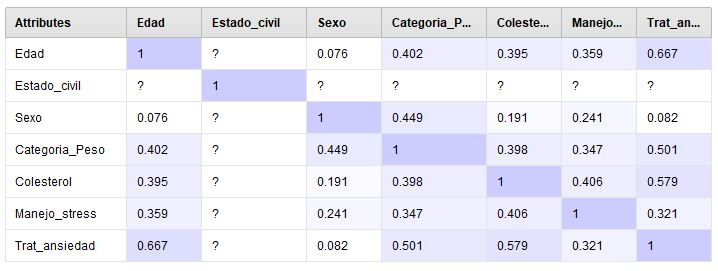
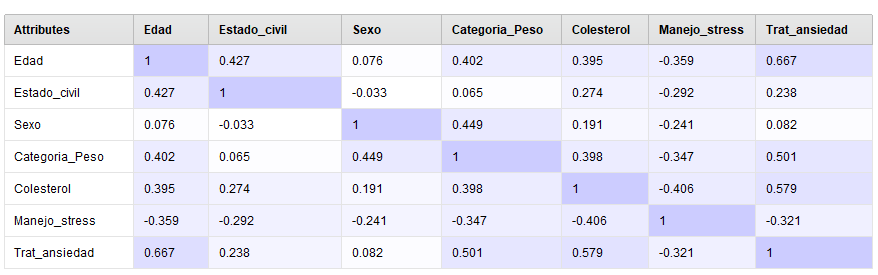
p2

Changed region(s): [[0.0, 0.0, 1.0, 1.0], [0.1532, 0.6494, 0.3064, 0.7085]]

diff --git a/proyectoDos.html b/proyectoDos.html
@@ -6,7 +6,7 @@
 -->
 <html>
 	<head>
-		<title>Proyecto análisis cardiológico </title>
+		<title>Predicción de segundo ataque cardíaco </title>
 		<meta charset="utf-8" />
 		<meta name="viewport" content="width=device-width, initial-scale=1, user-scalable=no" />
 		<link rel="stylesheet" href="assets/css/main.css" />
@@ -32,19 +32,26 @@
 							<!-- Content -->
 								<section>
 									<header class="main">
-										<h1>Predicción de segundo ataque cardíaco</h1>
+										<h2>Predicción de segundo ataque cardíaco</h2>
 									</header>
-							<hr class="major" />										
-							<p style="font-size:30px"> Datos utilizados <a href=""> data set cardiológico</a>
+								
+							<p style="font-size:18px"> Datos utilizados entrenamiento: <a href="files/cardiac-training"> data set cardiológico training</a>
+								
+							<p style="font-size:18px"> Datos utilizados test: <a href="files/cardiac-scoring"> data set cardiológico entrenamiento</a>
 
+	<hr class="major" />
+						<p style="font-size:20px ;text-align:justify"> El presente data set consta de información de pacientes :<br>
 
-						<p style="font-size:30px">El presente data set consta de información de pacientes :<br>
-
-						En primer lugar según CRISP - DM se procede a la comprensión del área de estudio, la misma refiere a mediciones de diferentes variables<br>
-						de pacientes cardiológicos.
-						En segundo lugar se procede a la comprensión de los datos, observamos los atributos medidos y su significado:<br>
+						En primer lugar siguiendo el modelo CRISP-DM se procede a la comprensión del área de estudio, la misma refiere a mediciones de diferentes variables<br>
+						de pacientes cardiológicos. El cardiólogo desea poder contar con un sistema que le permita inferir partiendo de datos observados del paciente si
+						hay riesgo de sufrir un nuevo infarto o no. Cuenta con datos históricos de pacientes y variables medidas que científicamente se utilizan como indicadores proxy para 
+						predecir enfermedades coronarias.<br>
+						El doctor cuenta en su registro con información histórica de pacientes que sufrieron un infarto  y por tanto hay datos que ya tiene etiquetados debido a que los pacientes fallecieron (ya confirmó la
+						posibilidad de sufrir un nuevo infarto o no). Por tanto nos encontramos frente a un problema supervisado.<br>
+						Por otro lado queremos determinar una clasificación de los pacientes en dos grupos, aquellos que sí tienen riesgo de sufrir un 2do infarto
+						y los que no, por lo que estamos ante un problema de clasificación.<br>
+						Procederemos primero a la comprensión de los datos, observamos los atributos medidos y su significado:<br>
 		
-						2do_Ataque_Corazon: Este atributo existe solamente en el dataset de entrenamiento. Es la variable objetivo o de predicción (“label” en RM). En el dataset de entrenamiento, este atributo contiene “SI” para aquellos individuos que han sufrido un segundo ataque al corazón, y “No” en caso contrario. </p>
 					<!DOCTYPE html>
 <html>
    <head>
@@ -58,71 +65,161 @@
    <body>
       <table>
          	<tr>
-            <th><p style="font-size:22px">Atributo</th></p>
-			<th><p style="font-size:22px">Tipo de atributo</th>
-            <th><p style="font-size:22px">Rango</th>
-			<th><p style="font-size:22px">Distribución</th>
+            <th><p style="font-size:18px">Atributo</th></p>
+			<th><p style="font-size:18px">Tipo de atributo</th>
+            <th><p style="font-size:18px">Rango</th>
          	</tr>
 			<tr>
 			<td><strong>Estado_civil:</strong> Asume los valores: 0 = soltero; 1 = casado, 2 = divorciado y 3 = viudo.</td>
-			<td>Polinominal</td>
+			<td>categórica más de 2 clases</td>
 			<td>0-3</td>
-			<td> -</td>
 			</tr>
 			<td><p><strong>Sexo:</strong> Asume los valores 0 = femenino; 1= masculino.</p></td>
-			<td>Binominal</td>
+			<td>categórica - dummy</td>
 			<td>0-1</td>
-			<td> - </td>
 			</tr>
 			<td><p><strong>Categoria_Peso:</strong> Toma tres valores: 0 = normal; 1 = sobrepeso; 2 = obeso. </p></td>
-			<td>Categórica tomada como integer</td>
+			<td>categórica en números</td>
 			<td>0-2</td>
-			<td> - </td>
 			</tr>
 			<td><p><strong>Colesterol:</strong> nivel de colesterol de la persona, tal como se ha registrado en el momento del tratamiento indicado cuando su más reciente ataque al corazón.</p></td>
-			<td>Continua</td>
-			<td>122-239</td>
-			<td> No tiene una forma de distribución conocida </td>
+			<td>continua</td>
+			<td>122 - 239</td>
 			</tr>
 			<td><p><strong>Manejo_stress: </strong> Indica si el paciente ha participado previamente de cursos de manejo del estrés: 0 = no; 1 = si.</p></td>
-			<td>Boniminal</td>
+			<td>categórica - dummy</td>
 			<td>0-1</td>
-			<td> - </td>
 			</tr>
-			<td><p><strong>Trat_ansiedad:</strong> Atributo que toma valores de tipo entero entre 0 y 100 indicativo del nivel natural de estrés de cada persona y de su habilidad para manejarlo. Poco tiempo después de que la persona se recuperara de su primer ataque, se le administró un test de ansiedad natural estándar. Los valores están tabulados en incrementos de 5. Un valor de 0 indicaría que la persona nunca siente ansiedad, presión o estrés en ninguna situación, mientras que un valor de 100 indicaría que la persona vive en un estado continuo de sobrecarga e incapaz de lidiar con su situación.</p></td>
-			<td>Categórica entendida como continua</td>
+			<td><p><strong>Trat_ansiedad:</strong> Atributo que toma valores de tipo entero entre 0 y 100 indicativo del nivel natural de estrés de cada persona y de su habilidad para manejarlo. </p></td>
+			<td>categórica entendida como continua</td>
 			<td>35-80</td>
-			<td> No tiene una forma de distribución conocida - podría ser normal con sesgo a la derecha </td>
 			</tr>   
       </table>
    </body>
 </html>
-					<p style="font-size:30px"> Analizados los atributos se identifican los rangos de los mismos, 
-					<span class="image main"><img src="images/p2_pdatos.JPG"  alt="" /></span>
-					Como se observa en esta imagen los 0 indican que no hay atributos faltantes (missing), los rangos no denotan valores anormales (outliers)
-					<p style="font-size:30px"> Se observan los atributos y las posibles correlaciones que pueden existir entre los mismos. Por ejemplo podrían identificarse entre manejo del estrés y tratamiento de la ansiedad posibles correlaciones y también hay estudios que vinculan niveles de colesterol con factores de estrés así como con el sexo de la persona.</p>
 
-					<p style="font-size:30px"> A continuación se realiza la preparación de los datos: 
-					Se observa la matriz de correlación entre atributos: </p>
-					<span class="image main"><img src="images/p2_mcorr.JPG"  alt="" /></span>
-					<p style="font-size:30px">Se observa que los atributos continuos más correlacionados podrían ser edad y tratamiento de la ansiedad pero su valor es bajo.
-					A su vez todos los atributos son importantes y aportan a la predicción de la variable dependiente, por tanto no se seleccionan atributos.<br>
+<p style="font-size:20px ;text-align:justify"> En cuanto a la variable Trat_ansiedad resulta de una prueba aplicada al paciente luego de sufrir el 1er ataque cardíaco, 
+a cada paciente se le administró un test de ansiedad natural estándar. <br>
+Los valores están tabulados en incrementos de 5. Un valor de 0 indicaría que la persona nunca siente ansiedad,
+ presión o estrés en ninguna situación, mientras que un valor de 100 indicaría que la persona vive en un estado continuo
+  de sobrecarga e incapaz de lidiar con su situación.<br>
 
-					Algo importante a realizar es la normalización de los datos para que los rangos de variación de los mismos no sean muy disímiles.<br>
-								
-								
-					Dado el problema que se aborda, y debido a que la variable dependiente toma los valores Sí y No (es categoríca - binominal) se considera que aplicar un método de regresión logística es adecuado para el modelo.		 </p>
-								
-					<span class="image main"><img src="images/p2_accuracy.JPG"  alt="" /></span>			
-								
-					<p style="font-size:30px">Con respecto a la evaluación del modelo, se divide el set de información rotulada en datos de entrenamiento y datos de validación para observar qué tan bien predice el modelo y obtener resultados de su performance.
-						En cuanto a esto se observa que tiene una precisión del 82,93%, observando que  18 casos predichos como sí eran efectivamente sí, mientras que 5 son falsos positivos. Por otra parte 16 casos fueron correctamente predichos como No mientras que 2 fueron falsos negativos.</p>
-						
-		
+El atributo <strong>2do_Ataque_Corazon </strong> existe solamente en el dataset de entrenamiento. Es la variable objetivo o de predicción (“label” en RapidMiner). 
+En el dataset de entrenamiento, este atributo contiene “Si” para aquellos individuos que han sufrido un segundo ataque al corazón, y “No” en caso contrario. <br>
+
+Analizados los atributos se estudian con más detalle los factores que pueden perjudicar cualquier modelo como ser los rangos de los mismos, valores missing y outliers.<br>
+Observamos a continuación el resumen de estadísticos que ofrece RapidMiner:<br>
+<img title="tabla" src="images/p2_pdatos.JPG" style="width:90%;height:50%;" alt="" /><br>
+Como se observa en esta imagen los 0 indican que no hay atributos faltantes (missing), 
+los rangos no denotan valores anormales (outliers) de hecho los promedios y desviaciones de cada columna se encuentran bastante
+ajustados a la media.<br>
+
+Se observa las posibles correlaciones que pueden existir entre los mismos en caso de aplicar algoritmos como Regresión Logística o Naive Bayes sensibles
+a las correlaciones entre las variables.<br>
+Por ejemplo podrían identificarse entre manejo del estrés y tratamiento de la ansiedad posibles correlaciones altas
+ y también hay estudios que vinculan niveles de colesterol con factores de estrés así como con el sexo de la persona.<br>
+
+Para los datos de nuestro data set sin embargo no parecieran haber correlaciones significativas:<br>
+<img title="matriz" src="images/p2_mcorr.JPG" style="width:90%;height:50%;" alt="" /><br>	<br>
+
+El registro más elevado se observa en edad y tratamiento de ansiedad, así como categoría peso y colesterol con tratamiento de ansiedad,
+pero son valores bajos no significativos que justifiquen una remoción del atributo del modelo.<br>
+
+Si aplicamos un análisis de componentes principales, ya que todas nuestras variables son numéricas podemos hacerlo con facilidad,
+observamos la siguiente tabla de valores propios (eigenvalues):<br>
+
+<img title="matriz" src="images/p2_pca.PNG" style="width:100%;height:50%;" alt="" /><br>	<br>
+
+Se observa que los dos primeros componentes principales explican el 97,7% de la varianza del modelo, si buscamos dentro de los
+vectores propios (eigenvectors) :
+
+<img title="matriz" src="images/p2_pca2.PNG" style="width:100%;height:50%;" alt="" /><br>	<br>
+
+Se observa que el primer componente tiene un peso altísimo del colesterol, lo que es lógico con las recomendaciones médicas habituales
+de controlar dicho factor de riesgo.<br>
+El segundo componente tiene un gran peso de la variable tratamiento de ansiedad de forma negativa lo que no tendría mucha lógica a simple 
+vista dado que indicaría a mayores puntajes de ansiedad en la prueba menor riesgo de padecer un segundo ataque, pero en estos casos
+es cuando debe comprenderse la existencia de posibles variables correlacionadas, es decir, podría establecer la hipótesis
+de que la gente más ansiosa tiende a descargar dicha energía haciendo por ejemplo ejercicio lo que sería bueno para la salud
+y se correlacionaría con esta variable. <br>
+Por otra parte el segundo atributo que compone el segundo componente principal es Edad, de forma negativa, aunque en este caso
+su peso se reduce.<br>
+ Se observa en la siguiente imagen la proporción de la varianza acumulada por componentes principales:<br>
+
+ <img title="matriz" src="images/p2_pcaCurve.PNG" style="width:100%;height:50%;" alt="" /><br>	<br>
+
+Algo importante a realizar es la normalización de los datos para que los rangos de variación de los mismos no sean muy disímiles
+sobre todo porque algoritmos como LDA o Naive Bayes asumen distribuciones normales.<br>
+
+En los modelos de rapid miner los operadores de SVM, Logistic Regression ofrecen realizar la estandarización como parámetro ajustable del nodo. <br>
+			
+Antes de decidir qué operador utilizar vamos a observar con una ROC Curve la performance de los diferentes modelos.<br>
+En el problema de referencia nos interesa una buena predicción de los True Positive por sobre que haya False Positive dado que no tendría
+un perjuicio para el paciente cuidarse, hacer ejercicio, comer sano. Igualmente como en todo modelo el ideal es que FP=0.<br>
+En este caso como no es utilizado para un diagnóstico específico (como por ejemplo los casos de cáncer) no se le va a comunicar al paciente:
+"usted va a sufrir un segundo infarto", sino tener la información para realizar controles más seguido y hacer énfasis en el cuidado del paciente.<br>
+Observamos la curva ROC obtenida al probar los modelos Random Forest, SVM, Logistic Regression y Naive Bayes:<br>
+			 <img title="matriz" src="images/p2_rocCurve.PNG" style="width:100%;height:50%;" alt="" /><br>	<br>
+
+Como se ve Random Forest presenta una mejor performance para los TP al inicio del modelo, luego todos se estabilizan presentando
+buenas performances finales.<br>
+
+Mediremos la performance de estos cuatro métodos y observamos los resultados utilizando el nodo de cross-validation con 10 folds y
+un muestreo aleatorio de los datos utilizados para entrenamiento y para validación.<br>
+Dentro del cross validation se aplican los cuatro modelos y se mide su performance.<br>
+
+Se obtienen las siguientes performance para los modelos:<br><br>
+
+REGRESIÓN LOGÍSTICA <br>
+<img src="images/p2_logReg.PNG"style="width:100%;height:50%;" alt="" />			<br>
+			
+			SVM <br>
+<img src="images/p2_svm.PNG"style="width:100%;height:50%;" alt="" />			<br>
+
+			NAIVE BAYES <br>
+<img src="images/p2_naive.PNG"style="width:100%;height:50%;" alt="" />			<br>
+
+			RANDOM FOREST <br>
+<img src="images/p2_randomF.PNG"style="width:100%;height:50%;" alt="" />			<br>
+
+
+
+En relación a lo observado con la ROC curve el modelo que presenta mejor performance es Random Forest,  con un 97,14% de precisión.
+Seguido por Regresión Logística 92,03% ,Naive Bayes: 88,35% y por último SVM 85,55%.
+
+Por tanto aplicando Random Forest al modelo con 50 árboles y una profundidad máxima de 5 (luego de probar diversos parámetros)
+se obtienen la confianza de 97,86%: <br>
+
+
+<img src="images/p2_finalAcc.PNG"style="width:100%;height:50%;" alt="" />	
+
+Y las predicciones sobre los datos de test:
+
+<img src="images/p2_apply.PNG"style="width:100%;height:50%;" alt="" />	<br>
+
+
+Lo que indica que por ejemplo el ejemplo 1 es una predicción de No con una confianza de 99,5%, mientras que el 2 una predicción de Sí
+con una confianza de 99,7%.<br>
+
+Por último el modelo arroja los siguientes árboles de entre los 50 elaborados:<br>
+
+Arbol 1<br>
+
+<img src="images/p2_arbol1.PNG"style="width:80%;height:50%;" alt="" />	<br>
+
+Arbol 2<br>
+<img src="images/p2_arbol2.PNG"style="width:80%;height:50%;" alt="" />	<br>
+
+
+Dado que 50 árboles puede ser excesivo para el entendimiento del modelo (una de las fortalezas que tienen los árboles 
+de decisión es su simplicidad para ser interpretados), se prueba reducir la cantidad de árboles a 5 obteniendo una
+performance de 95,71% es decir un descenso de más de 2 puntos porcentuales, en este caso queda evaluar al investigador
+que utilizar el modelo el trade-off entre comprensibilidad del modelo y exactitud.</p>
+
 					
-					</section>
-					</div>
-					</div>
+</section>
+</div>
+</div>
 
 	<!-- Sidebar -->
 <div id="sidebar">

diff --git a/index.html b/index.html
@@ -35,9 +35,9 @@ Free for personal and commercial use under the CCA 3.0 license (html5up.net/lice
 									<header>
 										<h1>PORTFOLIO MACHINE LEARNING</h1>
 									</header>
-									<p style="font-size:130% ;text-align:justify" >Los siguientes proyectos han sido seleccionados para ser estudiados aplicando algoritmos de machine learning; por cada proyecto la idea es identificar el contexto en el cual se insertan los datos así como el problema que se trata de explicar y hacer un breve análisis que facilite su comprensión para
+									<p style="font-size:130% ;text-align:justify">Los siguientes proyectos han sido seleccionados para ser estudiados aplicando algoritmos de machine learning; por cada proyecto la idea es identificar el contexto en el cual se insertan los datos así como el problema que se trata de explicar y hacer un breve análisis que facilite su comprensión para
 									luego decidir en base a dicha información algoritmos de machine learning a aplicar buscando la mayor exactitud del modelo predictor.</p>
-									<ul class="actions">
+									<ul class="actions"><br>
 										<li><a href="proyectos.html" class="button big">Ver más</a></li>
 									</ul>
 								</div>
@@ -56,28 +56,28 @@ Free for personal and commercial use under the CCA 3.0 license (html5up.net/lice
 										<a href="introduccion.html" span class="icon fa-gem"></span></a>
 										<div class="content">
 											<h3><a  href="introduccion.html">INTRODUCCIÓN A ML</a></h3>
-											<p style="font-size:20px " >Breve introducción a Machine Learning</p>
+											<p style="font-size:15px " >Breve introducción a Machine Learning</p>
 										</div>
 									</article>
 									<article>
 											<a href="metodos.html" span class="icon solid fa-book"></span></a>
 										<div class="content">
 											<h3><a  href="metodos.html">MARCO TEÓRICO</a></h3>
-											<p style="font-size:20px" >Marco teórico de los algoritmos utilizados.</p>
+											<p style="font-size:15px" >Marco teórico de los algoritmos utilizados.</p>
 										</div>
 									</article>
 									<article>
 										<a href="proyectos.html" span class="icon solid fa-briefcase"></span></a>
 										<div class="content">
 											<h3><a  href="proyectos.html">PROYECTOS ANALIZADOS</a></h3>
-											<p style="font-size:20px " >Selección de proyectos a ser estudiados utilizando algoritmos de Machine Learning.</p>
+											<p style="font-size:15px " >Selección de proyectos a ser estudiados utilizando algoritmos de Machine Learning.</p>
 										</div>
 									</article>
 									<article>
 										<a href="TAS.html" span class="icon solid fa-tasks"></span></a>
 										<div class="content">
 											<h3><a  href="TAS.html">TAREAS DE APLICACIÓN</a></h3>
-											<p style="font-size:20px" >Tareas de aplicación realizadas en el marco de la materia Introducción a Machine Learning.</p>
+											<p style="font-size:15px" >Tareas de aplicación realizadas en el marco de la materia Introducción a Machine Learning.</p>
 										</div>
 									</article>
 								</div>
@@ -92,7 +92,7 @@ Free for personal and commercial use under the CCA 3.0 license (html5up.net/lice
 									<article>
 										<a href="proyectoUno.html" class="image"><img src="images/p1_casas.jpg" style="width:95%;height:95%;" alt="" /></a>
 										<h3>Precios de viviendas en Boston</h3>
-										<p style="font-size:20px ;text-align:justify" >Análisis de precios de viviendas en Boston, Massachusets</p>
+										<p style="font-size:18px ;text-align:justify" >Análisis de precios de viviendas en Boston, Massachusets</p>
 										<ul class="actions">
 											<li><a href="proyectoUno.html" class="button">Ver más</a></li>
 										</ul>
@@ -100,7 +100,7 @@ Free for personal and commercial use under the CCA 3.0 license (html5up.net/lice
 									<article>
 										<a href="proyectoDos.html" class="image"><img src="images/p2_cardiol.jpg" style="width:95%;height:95%;" alt="" /></a>
 										<h3>Predicción cardiológica</h3>
-										<p style="font-size:20px ;text-align:justify" >Predicción de segundo infarto en base a información médica.</p>
+										<p style="font-size:18px ;text-align:justify" >Predicción de segundo infarto en base a información médica.</p>
 										<ul class="actions">
 											<li><a href="proyectoDos.html" class="button">Ver más</a></li>
 										</ul>
@@ -109,7 +109,7 @@ Free for personal and commercial use under the CCA 3.0 license (html5up.net/lice
 									<article>
 										<a href="proyectoCuatro.html" class="image"><img src="images/oseos.JPG"style="width:95%;height:95%;" alt="" /></a>
 										<h3>Restos óseas</h3>
-										<p style="font-size:20px ;text-align:justify" >Predicción de altura a partir de restos óseos</p>
+										<p style="font-size:18px ;text-align:justify" >Predicción de altura a partir de restos óseos</p>
 										<ul class="actions">
 											<li><a href="proyectoCuatro.html" class="button">Ver más</a></li>
 										</ul>
@@ -117,7 +117,7 @@ Free for personal and commercial use under the CCA 3.0 license (html5up.net/lice
 									<article>
 										<a href="proyectoCinco.html" class="image"><img src="images/autism.jpg" style="width:95%;height:95%;" alt="" /></a>
 										<h3>Predicción de autismo</h3>
-										<p style="font-size:20px" >Predicción de autismo en base a algunos factores sociodemográficos básico, registros de antecedentes familiares y características al momento de nacer.</p>
+										<p style="font-size:18px" >Predicción de autismo en base a algunos factores sociodemográficos básico, registros de antecedentes familiares y características al momento de nacer.</p>
 										<ul class="actions">
 											<li><a href="proyectoCinco.html" class="button">Ver más</a></li>
 										</ul>
@@ -125,7 +125,7 @@ Free for personal and commercial use under the CCA 3.0 license (html5up.net/lice
 										<article>
 										<a href="proyectoTres.html" class="image"><img src="images/p3_higado.jpg" style="width:95%;height:95%;"alt="" /></a>
 										<h3>Predicción pacientes c/s hígado</h3>
-										<p style="font-size:20px ;text-align:justify" >Predicción de si un conjunto de pacientes poseen hígado o no en base a indicadores de la sangre.</p>
+										<p style="font-size:18px ;text-align:justify" >Predicción de si un conjunto de pacientes poseen hígado o no en base a indicadores de la sangre.</p>
 										<ul class="actions">
 											<li><a href="proyectoTres.html" class="button">Ver más</a></li>
 										</ul>
@@ -185,9 +185,9 @@ Free for personal and commercial use under the CCA 3.0 license (html5up.net/lice
 					<ul>
 						<li><a href="proyectoUno.html">Predicción precios de viviendas  </a></li>
 						<li><a href="proyectoDos.html">Predicción cardiológica</a></li>
-						<li><a href="proyectoTres.html">Predicción pacientes con/sin hígado</a></li>
+					
 						<li><a href="proyectoCuatro.html">Predicción altura a partir de restos óseos</a></li>
-						
+						<li><a href="proyectoTres.html">Predicción pacientes con/sin hígado</a></li>
 						<li><a href="proyectoCinco.html">Predicción de autismo en adultos</a></li>
 				
 						<li><a href="proyectoSeis.html">Nombre 6</a></li>
